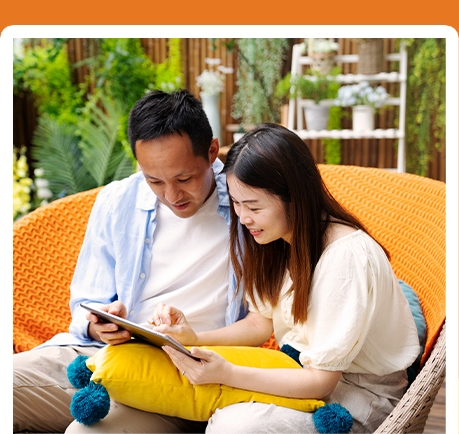
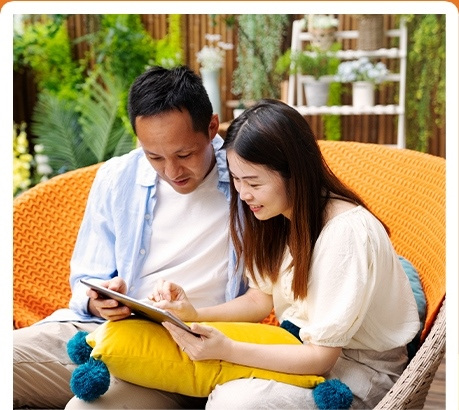
fix spacing

diff --git a/source/index.html b/source/index.html
@@ -79,13 +79,13 @@
 							  </table></td>
                         <td width="230" valign="top" style="margin: 0; padding: 0; border: none; font-family: Arial, Helvetica, sans-serif !important; font-size: 15px; line-height: 1.3;"><table width="100%" border="0" cellpadding="0" cellspacing="0" class="chs_body">
 							<tr>
-								<td valign="top" height="20" bgcolor="#e77721" style="margin: 0; padding: 0; border: none; font-family: Arial, Helvetica, sans-serif !important; font-size: 1px; line-height: 1.3;">&nbsp;</td>
+								<td valign="top" height="30" bgcolor="#e77721" style="margin: 0; padding: 0; border: none; font-family: Arial, Helvetica, sans-serif !important; font-size: 1px; line-height: 1.3;">&nbsp;</td>
 							</tr>
 							<tr>
 								<td valign="top" style="margin: 0; padding: 0; border: none; font-family: Arial, Helvetica, sans-serif !important; font-size: 15px; line-height: 1.3;"><img src="image/chs_box1_img.jpg" width="230" height="auto" alt=""/></td>
 							</tr>
 							<tr>
-								<td height="68" valign="top" align="center" bgcolor="#fed140" style="margin: 0; padding: 0; border: none; font-family: Arial, Helvetica, sans-serif !important; font-size: 12px; line-height: 1.3;"><table width="100%" border="0" cellpadding="0" cellspacing="0" class="chs_body">
+								<td height="70" valign="top" align="center" bgcolor="#fed140" style="margin: 0; padding: 0; border: none; font-family: Arial, Helvetica, sans-serif !important; font-size: 12px; line-height: 1.3;"><table width="100%" border="0" cellpadding="0" cellspacing="0" class="chs_body">
 									<tr>
 										<td valign="top" align="center" bgcolor="#ffffff" style="margin: 0; padding: 10px 10px; border-radius: 0 0 0 5px; font-family: Arial, Helvetica, sans-serif !important; font-size: 12px; line-height: 1.3; color: #e77721">Cảm ơn bạn đã cho FWD cơ hội để tiếp thêm sự bảo vệ trên hành trình khám phá cuộc sống!</td>
 									</tr>
@@ -304,10 +304,13 @@ vững vàng trải nghiệm cuộc sống</strong></td>
                       <tr>
                         <td width="210" valign="top" style="margin: 0; padding: 0; border: none; font-family: Arial, Helvetica, sans-serif !important; font-size: 15px; line-height: 1.3;"><table width="100%" border="0" cellpadding="0" cellspacing="0" class="chs_body">
 							<tr>
+								<td valign="top" height="30" bgcolor="#e77721" style="margin: 0; padding: 0; border: none; font-family: Arial, Helvetica, sans-serif !important; font-size: 1px; line-height: 1.3;">&nbsp;</td>
+							</tr>
+							<tr>
 								<td valign="top" style="margin: 0; padding: 0; border: none; font-family: Arial, Helvetica, sans-serif !important; font-size: 15px; line-height: 1.3;"><img src="image/chs_box2_img.jpg" width="210" height="auto" alt=""/></td>
 							</tr>
 							<tr>
-								<td height="90" valign="top" align="center" bgcolor="#0097aa" style="margin: 0; padding: 0; border: none; font-family: Arial, Helvetica, sans-serif !important; font-size: 12px; line-height: 1.3;"><table width="100%" border="0" cellpadding="0" cellspacing="0" class="chs_body">
+								<td height="85" valign="top" align="center" bgcolor="#0097aa" style="margin: 0; padding: 0; border: none; font-family: Arial, Helvetica, sans-serif !important; font-size: 12px; line-height: 1.3;"><table width="100%" border="0" cellpadding="0" cellspacing="0" class="chs_body">
 									<tr>
 										<td valign="top" align="center" bgcolor="#ffffff" style="margin: 0; padding: 10px 10px; border-radius: 0 0 0 5px; font-family: Arial, Helvetica, sans-serif !important; font-size: 12px; line-height: 1.3; color: #e77721">Cùng FWD ghi dấu những khoảnh khắc trọn vẹn bên gia đình, khi an tâm được bảo vệ</td>
 									</tr>
